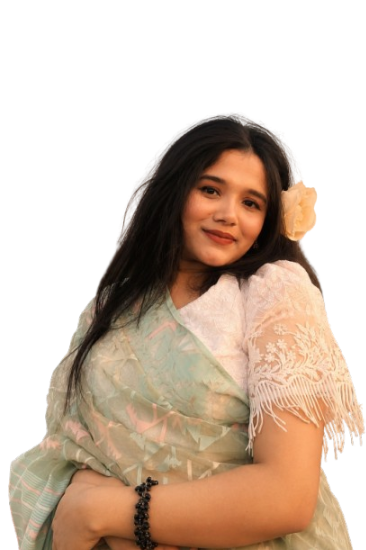
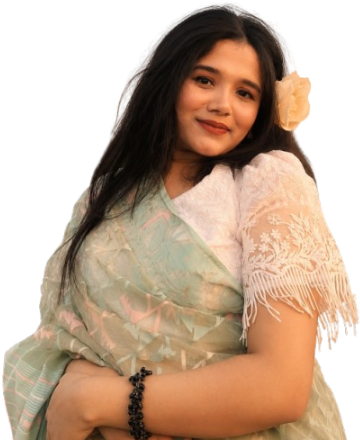
fix(characters): fix transparency holes on hero and display full characters in high quality

diff --git a/artifacts/rekha-firebound/src/index.css b/artifacts/rekha-firebound/src/index.css
@@ -54,19 +54,25 @@ button:focus-visible { outline: 3px solid #ed6a39; outline-offset: 3px; }
 .hud-chip { height:42px; padding:0 13px; display:flex;align-items:center;gap:8px; border-radius:12px;background:#fff6e9ed;border:1px solid #fff9;box-shadow:0 3px 0 #3b465044;color:#283149;font:500 12px 'DM Mono',monospace;letter-spacing:.02em; }
 .hud-chip strong {font:800 15px 'Space Grotesk',sans-serif}
 .hud-heart {color:#e75e42;font-size:18px}
-.hud-portrait {width:23px;height:28px;object-fit:cover;object-position:center 25%;border-radius:50%;background:#ffd887;border:1px solid #df9a53}
+.hud-portrait {width:28px;height:28px;object-fit:cover;object-position:center 15%;border-radius:50%;background:#ffd887;border:1.5px solid #df9a53;box-shadow:0 1px 3px rgba(0,0,0,.15)}
 .pause-chip {pointer-events:auto;cursor:pointer;background:#fff6e9ed;border:0}
 .overlay {position:absolute;inset:0;z-index:3;display:grid;place-items:center;padding:20px;background:#19264155;backdrop-filter:blur(3px);animation:fade-in .24s ease both}
-.modal-card {position:relative;width:min(460px,94%);padding:clamp(22px,4vw,38px);border:3px solid #29334c;border-radius:24px;background:#fff5df;box-shadow:0 9px 0 #d89b49,0 20px 40px #202a4433;text-align:center;animation:pop-in .32s cubic-bezier(.2,.8,.2,1) both}
+.modal-card {position:relative;width:min(480px,94%);padding:clamp(22px,4vw,36px);border:3px solid #29334c;border-radius:24px;background:#fff5df;box-shadow:0 9px 0 #d89b49,0 20px 40px #202a4433;text-align:center;animation:pop-in .32s cubic-bezier(.2,.8,.2,1) both}
 .modal-kicker {color:#bd5738;font:500 11px 'DM Mono',monospace;letter-spacing:.16em;text-transform:uppercase}
 .modal-title {margin:8px 0 9px;color:#28324b;font:800 clamp(30px,5vw,48px)/.98 Syne,sans-serif;letter-spacing:-.055em}
-.modal-copy {max-width:340px;margin:0 auto 20px;color:#71634e;font-size:14px;line-height:1.55}
+.modal-copy {max-width:360px;margin:0 auto 16px;color:#71634e;font-size:14px;line-height:1.55}
 .title-logo {margin:0 auto 14px;width:78px;height:78px;display:grid;place-items:center;border-radius:25px;background:#f36e40;box-shadow:inset 0 -7px #cb4f30,0 5px 0 #29334c;color:#fff4d7;font:800 42px Syne,sans-serif;transform:rotate(-4deg)}
-.portrait-row {display:flex;justify-content:center;align-items:center;gap:18px;margin:18px 0 24px}
-.portrait-card {width:72px;height:82px;border:3px solid #fff;border-radius:20px;overflow:hidden;box-shadow:0 0 0 2px #e2bd79,0 5px 0 #dbc59d;background:#f1d194;transform:rotate(-5deg)}
-.portrait-card img {width:100%;height:100%;object-fit:cover;object-position:top center}
-.portrait-card.hero img {object-position:center 28%}
-.heart-link {color:#e66c48;font-size:24px}
+.portrait-row {display:flex;justify-content:center;align-items:center;gap:18px;margin:16px 0 22px}
+.portrait-card {position:relative;width:115px;height:148px;border:3px solid #fff;border-radius:18px;overflow:hidden;box-shadow:0 0 0 2px #e2bd79,0 8px 18px rgba(45,35,20,.14),0 5px 0 #dbc59d;background:linear-gradient(180deg,#fffaf0 0%,#f8e5c2 100%);display:flex;align-items:center;justify-content:center;padding:8px 8px 24px;transform:rotate(-3deg);transition:transform .2s ease,box-shadow .2s ease}
+.portrait-card:hover {transform:translateY(-3px) rotate(0deg);box-shadow:0 0 0 2px #e2bd79,0 12px 24px rgba(45,35,20,.2),0 7px 0 #dbc59d}
+.portrait-card.hero {transform:rotate(3deg)}
+.portrait-card.hero:hover {transform:translateY(-3px) rotate(0deg)}
+.portrait-card.mini {width:96px;height:124px;transform:none}
+.portrait-card.mini:hover {transform:translateY(-2px)}
+.portrait-card img {width:100%;height:100%;object-fit:contain;object-position:center bottom;filter:drop-shadow(0 4px 6px rgba(40,50,70,.18));image-rendering:auto}
+.card-badge {position:absolute;bottom:5px;left:50%;transform:translateX(-50%);padding:2px 9px;background:#29334c;color:#fff6df;font:700 9px 'DM Mono',monospace;letter-spacing:.12em;border-radius:6px;text-transform:uppercase;box-shadow:0 2px 4px rgba(0,0,0,.15);white-space:nowrap}
+.heart-link {color:#ee633b;font-size:26px;filter:drop-shadow(0 2px 4px rgba(238,99,59,.25));animation:heartbeat 1.8s ease-in-out infinite}
+@keyframes heartbeat { 0%,100%{transform:scale(1)} 50%{transform:scale(1.25)} }
 .primary-button {min-height:52px;padding:0 26px;border:0;border-radius:14px;background:#ef673c;color:#fff7df;box-shadow:0 5px 0 #b8462d;cursor:pointer;font-weight:800;font-size:15px;letter-spacing:.02em;transition:transform .15s,box-shadow .15s}
 .primary-button:hover {transform:translateY(-2px);box-shadow:0 7px 0 #b8462d}
 .primary-button:active {transform:translateY(3px);box-shadow:0 2px 0 #b8462d}
@@ -100,8 +106,10 @@ button:focus-visible { outline: 3px solid #ed6a39; outline-offset: 3px; }
   .modal-kicker{font-size:9px}
   .modal-title{margin:4px 0 6px;font-size:30px}
   .modal-copy{margin:0 auto 8px;font-size:12px;line-height:1.35}
-  .portrait-row{gap:12px;margin:6px 0 10px}
-  .portrait-card{width:44px;height:50px;border-radius:12px}
+  .portrait-row{gap:12px;margin:8px 0 12px}
+  .portrait-card{width:86px;height:112px;border-radius:14px;padding:6px 6px 18px}
+  .portrait-card.mini{width:76px;height:98px}
+  .card-badge{bottom:3px;font-size:8px;padding:1px 6px}
   .primary-button{min-height:42px;padding:0 16px;font-size:13px}
   .secondary-button{min-height:38px;padding:0 12px;font-size:12px}
   .instructions{gap:5px;margin-top:10px}

diff --git a/artifacts/rekha-firebound/src/App.tsx b/artifacts/rekha-firebound/src/App.tsx
@@ -194,9 +194,15 @@ function App() {
                 <h1 className="modal-title">NOVA<br />Firebound</h1>
                 <p className="modal-copy">Leap through sunlit fields, copper dunes and an ember-lit mountain. Find your way back to NOVA.</p>
                 <div className="portrait-row">
-                  <div className="portrait-card hero"><img src="/assets/hero-transparent.png" alt="Your brave adventurer" /></div>
+                  <div className="portrait-card hero">
+                    <img src="/assets/hero-transparent.png" alt="Hero Adventurer" />
+                    <span className="card-badge">HERO</span>
+                  </div>
                   <span className="heart-link">✦</span>
-                  <div className="portrait-card"><img src="/assets/collectible.png" alt="NOVA" /></div>
+                  <div className="portrait-card">
+                    <img src="/assets/collectible.png" alt="NOVA" />
+                    <span className="card-badge">NOVA</span>
+                  </div>
                 </div>
                 <button className="primary-button" onClick={begin}>Start the adventure <span aria-hidden="true">→</span></button>
                 <div className="instructions"><span className="keycap">← → / A D</span><span className="keycap">SPACE / W / ↑ JUMP</span></div>
@@ -214,6 +220,10 @@ function App() {
           {scene === 'complete' && (
             <div className="overlay"><div className="modal-card">
               <div className="modal-kicker">Chapter {level} cleared</div><h2 className="modal-title">Level complete!</h2>
+              <div className="portrait-card mini" style={{ margin: '0 auto 12px' }}>
+                <img src="/assets/collectible.png" alt="NOVA" />
+                <span className="card-badge">NOVA</span>
+              </div>
               <p className="modal-copy">You found {novaCount} NOVA {novaCount === 1 ? 'portrait' : 'portraits'} on the way. The path keeps going.</p>
               <button className="primary-button" onClick={advance}>Enter {levelNames[level]} <span aria-hidden="true">→</span></button>
               <div className="instructions"><span className="keycap">{timeLabel} ADVENTURE TIME</span></div>
@@ -222,6 +232,10 @@ function App() {
           {scene === 'gameover' && (
             <div className="overlay"><div className="modal-card">
               <div className="modal-kicker">The fire got the better of us</div><h2 className="modal-title">One more try?</h2>
+              <div className="portrait-card hero mini" style={{ margin: '0 auto 12px' }}>
+                <img src="/assets/hero-transparent.png" alt="Hero" />
+                <span className="card-badge">HERO</span>
+              </div>
               <p className="modal-copy">Every brave run teaches you the way. NOVA is still out there.</p>
               <button className="primary-button" onClick={retry}>Retry adventure</button>
               <button className="secondary-button" onClick={() => setScene('title')}>Title screen</button>
@@ -230,7 +244,18 @@ function App() {
           {scene === 'victory' && (
             <div className="overlay"><div className="modal-card">
               <div className="title-logo">♥</div><div className="modal-kicker">All three worlds, one big heart</div>
-              <h2 className="modal-title">Together again.</h2>
+              <h2 className="modal-title">Together again!</h2>
+              <div className="portrait-row victory">
+                <div className="portrait-card hero">
+                  <img src="/assets/hero-transparent.png" alt="Hero" />
+                  <span className="card-badge">HERO</span>
+                </div>
+                <span className="heart-link">♥</span>
+                <div className="portrait-card">
+                  <img src="/assets/collectible.png" alt="NOVA" />
+                  <span className="card-badge">NOVA</span>
+                </div>
+              </div>
               <p className="modal-copy">You crossed every flame and found {novaCount} NOVA portraits. The best part of every adventure is who waits at the end.</p>
               <button className="primary-button" onClick={retry}>Play again</button>
               <div className="instructions"><span className="keycap">FINAL TIME {timeLabel}</span></div>

diff --git a/artifacts/rekha-firebound/src/GameCanvas.tsx b/artifacts/rekha-firebound/src/GameCanvas.tsx
@@ -207,7 +207,8 @@ export default function GameCanvas({ level, active, onCollect, onDeath, onCheckp
           }
         }
         for (const p of game.data.pickups) {
-          if (!p.taken && Math.abs(game.x + game.w / 2 - p.x) < 38 && Math.abs(game.y + game.h / 2 - (p.y + Math.sin(game.frame * .05 + p.phase) * 7)) < 52) {
+          const py = p.y + Math.sin(game.frame * .05 + p.phase) * 7;
+          if (!p.taken && Math.abs(game.x + game.w / 2 - p.x) < 42 && Math.abs(game.y + game.h / 2 - py) < 56) {
             p.taken = true; callbacks.current.onCollect(); game.label = 'NOVA'; game.labelUntil = game.frame + 60;
           }
         }
@@ -304,13 +305,42 @@ export default function GameCanvas({ level, active, onCollect, onDeath, onCheckp
         }
         ctx.restore();
       }
-      // Portrait keeps original transparency; bobbing sparkle flecks.
+      // High-quality collectible portrait with golden aura and floating sparkles
       for (const p of game.data.pickups) {
         if (p.taken || p.x < game.camera - 80 || p.x > game.camera + 1050) continue;
         const py = p.y + Math.sin(game.frame * .05 + p.phase) * 7;
-        ctx.fillStyle = '#fff4a8'; ctx.fillRect(p.x - 20, py - 17, 4, 4); ctx.fillRect(p.x + 19, py + 10, 3, 3);
-        ctx.fillStyle = '#e4a34f'; ctx.beginPath(); ctx.ellipse(p.x, py + 17, 18, 4, 0, 0, Math.PI * 2); ctx.fill();
-        if (novaReady) ctx.drawImage(novaSprite, p.x - 18, py - 34, 36, 54);
+        const t = game.frame * 0.08 + p.phase;
+        
+        // Soft radiant golden aura
+        const aura = ctx.createRadialGradient(p.x, py, 4, p.x, py, 34);
+        aura.addColorStop(0, 'rgba(255, 242, 175, 0.45)');
+        aura.addColorStop(0.65, 'rgba(255, 205, 100, 0.18)');
+        aura.addColorStop(1, 'rgba(255, 205, 100, 0)');
+        ctx.fillStyle = aura;
+        ctx.beginPath();
+        ctx.arc(p.x, py, 34, 0, Math.PI * 2);
+        ctx.fill();
+
+        // Twinkling sparkle flecks
+        const s1x = p.x - 22 + Math.sin(t) * 4;
+        const s1y = py - 18 + Math.cos(t * 1.3) * 3;
+        const s2x = p.x + 20 + Math.cos(t * 1.1) * 3;
+        const s2y = py + 12 + Math.sin(t * 0.9) * 4;
+        ctx.fillStyle = '#fff9c7';
+        ctx.fillRect(s1x, s1y, 4, 4);
+        ctx.fillStyle = '#ffcf52';
+        ctx.fillRect(s2x, s2y, 3, 3);
+
+        // Subtle ground float shadow
+        ctx.fillStyle = 'rgba(30, 40, 60, 0.15)';
+        ctx.beginPath();
+        ctx.ellipse(p.x, py + 26, 14 + Math.sin(t) * 2, 3.5, 0, 0, Math.PI * 2);
+        ctx.fill();
+
+        // High quality full collectible image
+        if (novaReady) {
+          ctx.drawImage(novaSprite, p.x - 23, py - 28, 46, 56);
+        }
       }
       // Player with a gentle squash/stretch run cycle.
       const running = Math.abs(game.vx) > .5 && game.grounded;
